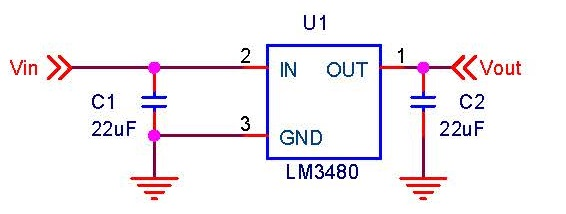
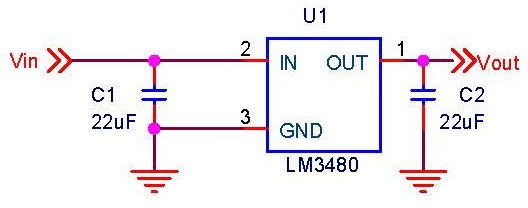
created jpg files for parameter capacitor uses sections.

Changed region(s): [[0.0, 0.1731, 1.0, 0.9519], [0.5152, 0.0288, 0.6364, 0.1442], [0.1515, 0.4038, 0.2121, 0.5192]]

diff --git a/thesis/figures/parameters/bypass.tex b/thesis/figures/parameters/bypass.tex
@@ -1,5 +1,5 @@
 \begin{figure}
-\includegraphics[keepaspectratio=true,scale=.5]{./figures/parameters/bypass.png}
+\includegraphics[keepaspectratio=true,scale=.5]{./figures/parameters/bypass.jpg}
 \centering
 %    \cite{capSite_df_vs_temp}
 \caption{Power Supply Bypassing Circuit}
